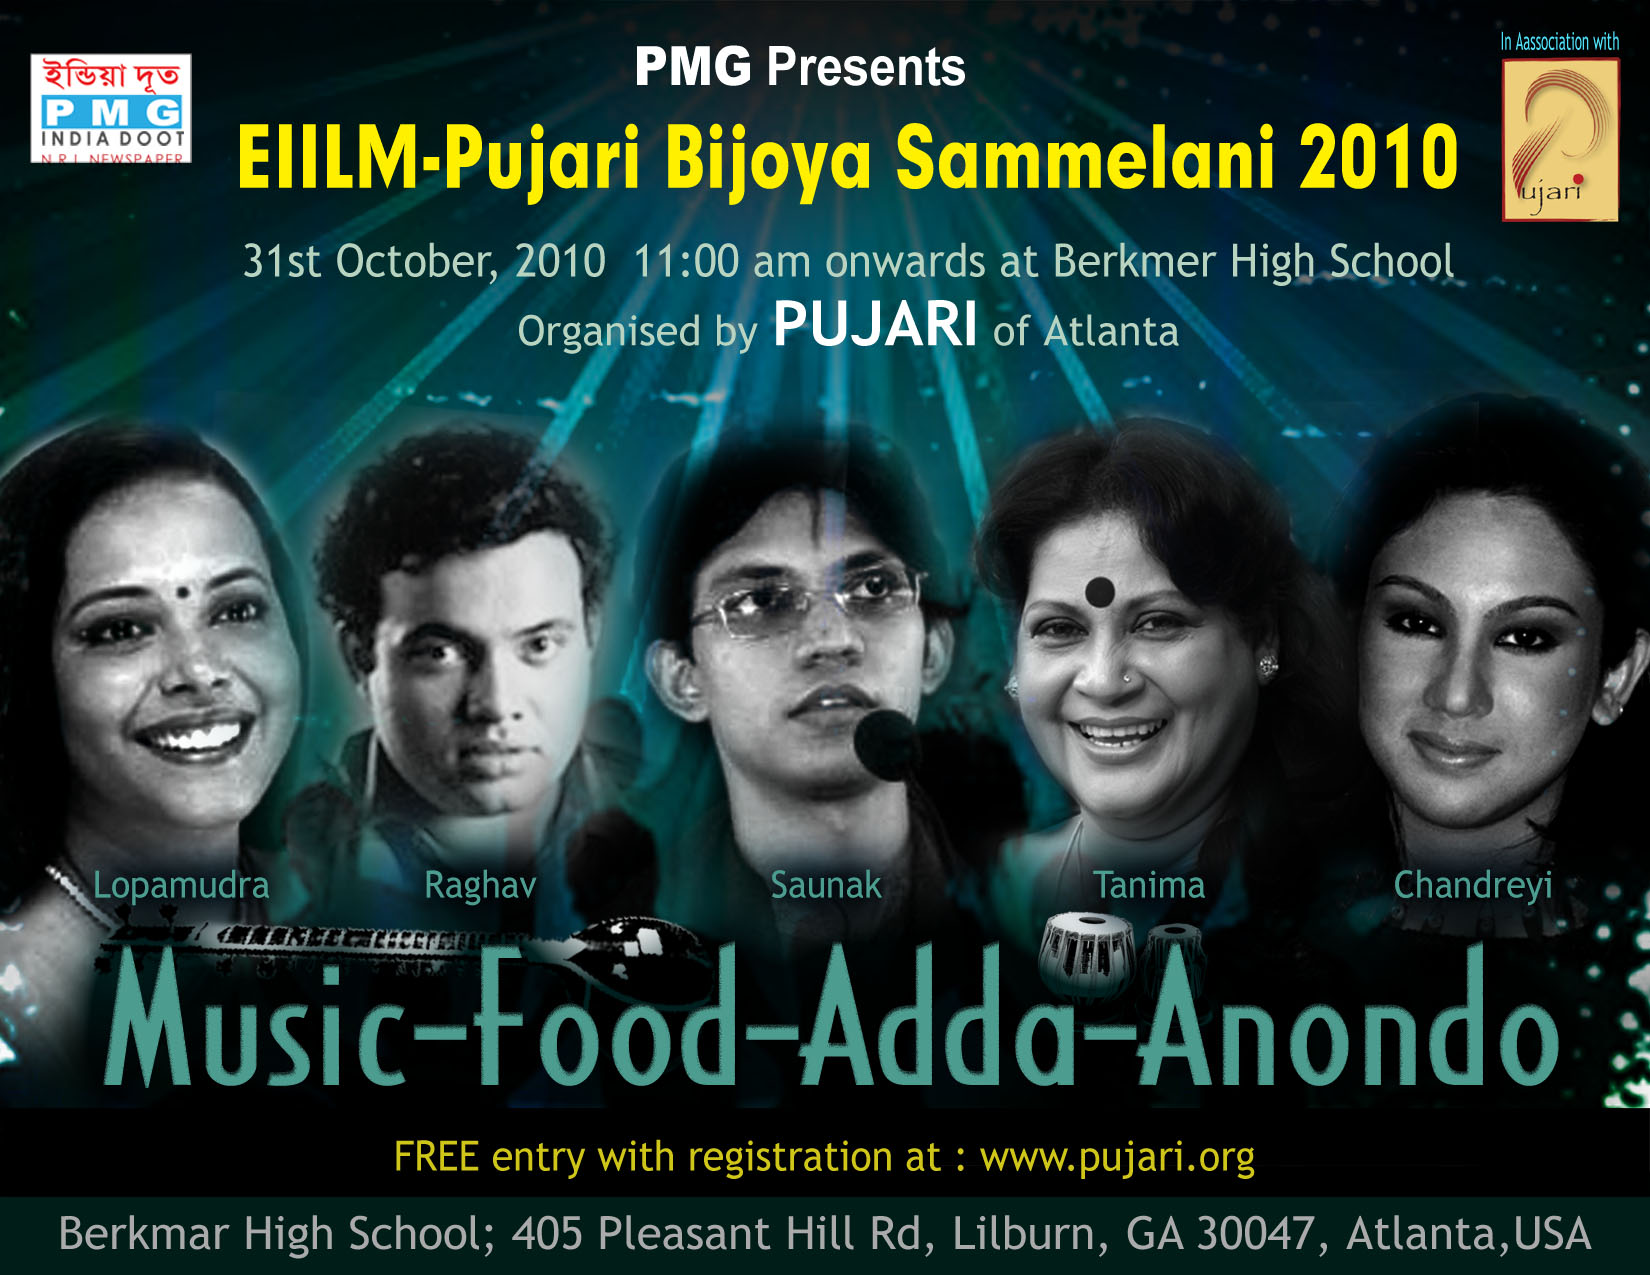
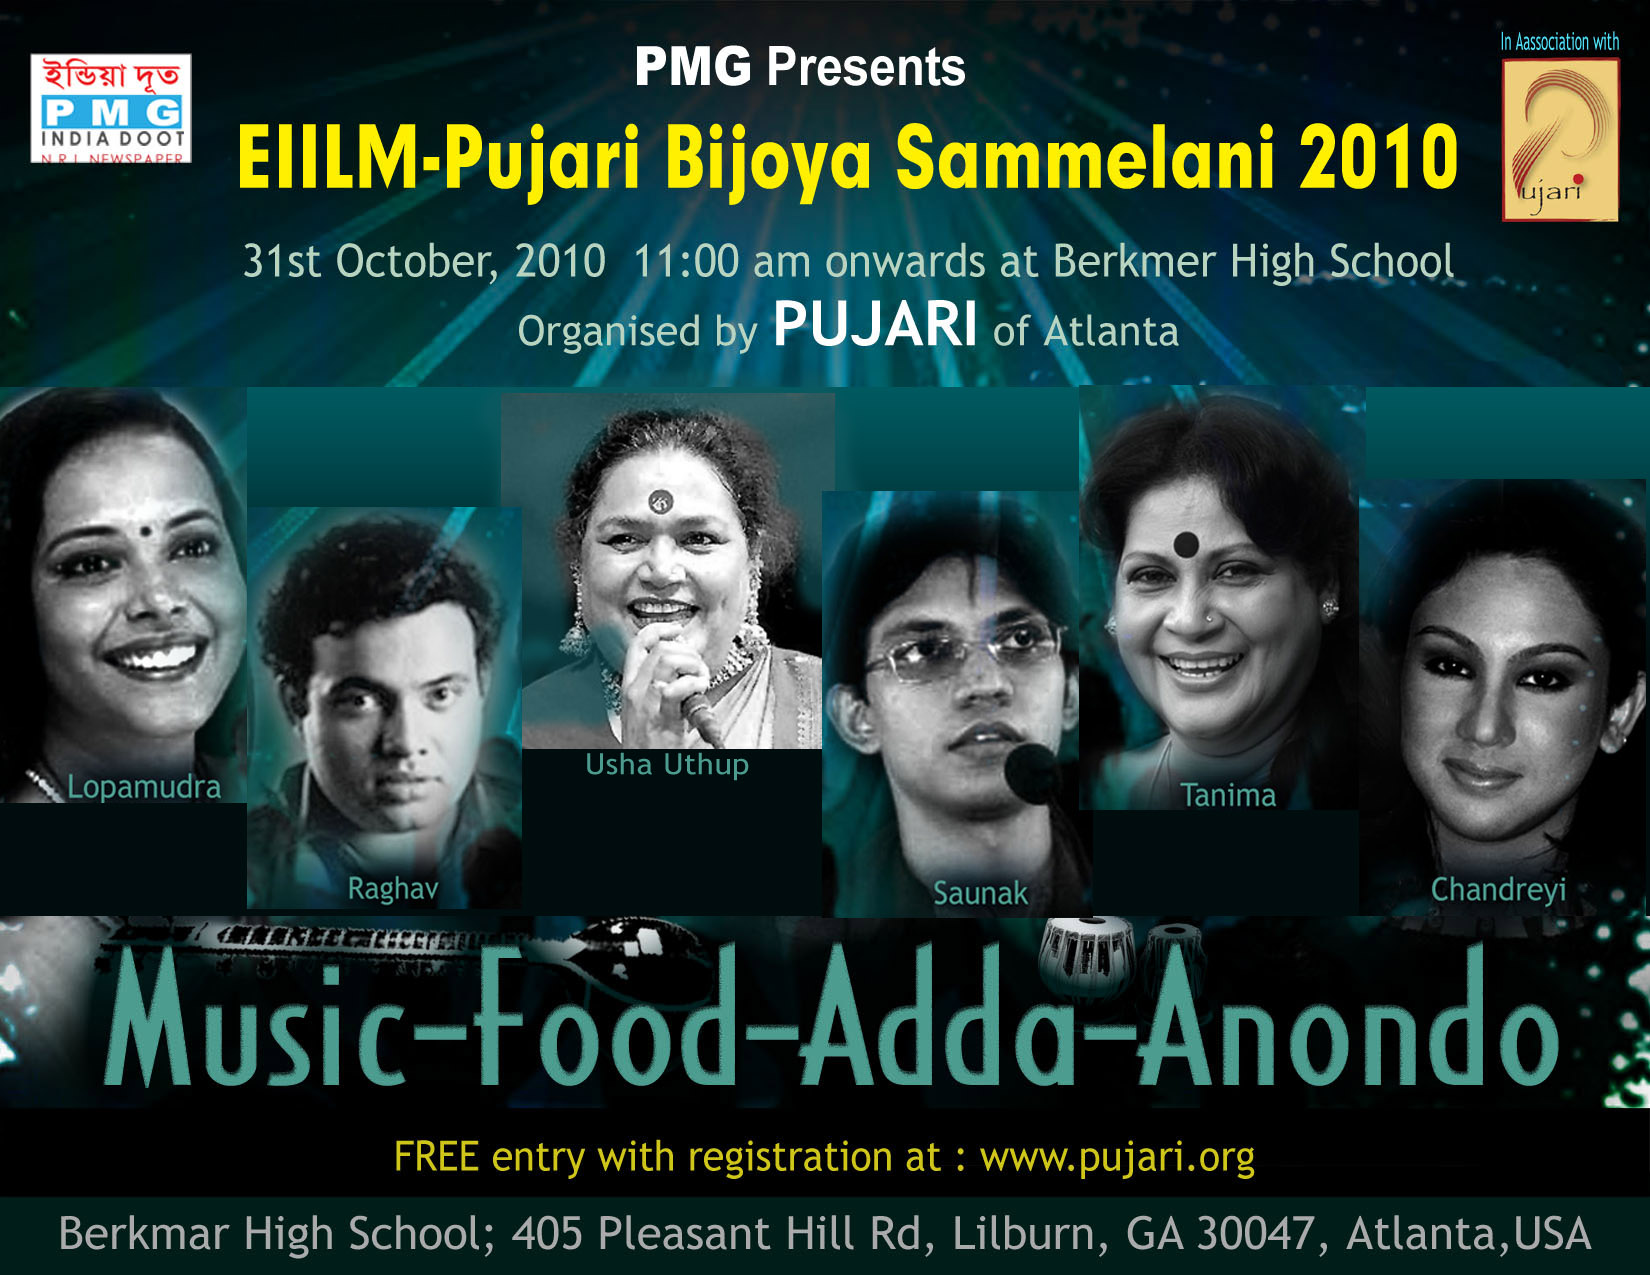
updated to include new artist on home page and events page for BS 2010.

Changed region(s): [[0.0, 0.2753, 1.0, 0.7341], [0.9891, 0.7035, 1.0, 0.7341]]

diff --git a/nextevent.html b/nextevent.html
@@ -209,7 +209,8 @@ type="application/x-shockwave-flash" width="1000" height="150">
 	<DIV align="left">
 	<div class="style21">
 		We just celebrated Durga Puja followed by Laxmi Puja, in a spectacular fashion and now, we at Pujari Atlanta are very excited to share the 
-		entertainment and cultural programs of <a href="http://www.indiautsavpmg.com" target="_blank">Bijoya Sammelani</a> on Oct 31st, 2010.<br/><br/>
+		entertainment and cultural programs of <a href="http://www.indiautsavpmg.com" target="_blank">Bijoya Sammelani</a> on Oct 31st, 2010. There will renowned artists performing 
+		at the event. Not in any particluar order, they are Chandreyi Ghosh, Lopa Mudra Mitra, Raghab Chatterjee, Sounak Chattopadhyay, Tanima Sen and Usha Utthup.<br/><br/>
 		<center><a href="2010/Pujari_BS_Flyer_2010.jpg" target="_blank"><img alt="Pujari Atlanta Bijoya Sammelani 2010" src="2010/Pujari_BS_Flyer_2010.jpg" width="65%" /></a></center>
 		<br/><br/>Bijoya Sammelani online registration is now open. Please register as seats are going fast. <a href="http://eventreg.heroku.com/" target="_blank">Register now!</a><br/>
 		<a href="2010/Pujari_BS_Kolkata_Poster1.jpg" target="_blank"><img style="float:left; margin:10px;" alt="Photos from Park Circus, Kolkata for the Pujari Atlanta Bijoya Sammelani 2010 event in Atlanta" src="2010/Pujari_BS_Kolkata_Poster1.jpg" width="50%" /></a>		

diff --git a/index.html b/index.html
@@ -518,7 +518,7 @@ curobj.q.value="site:"+domainroot+" "+curobj.qfront.value
 			</tr>
 			<tr>
 				<td style="width: 182px"><p>BIJOYA SAMMELANI <br/>Sunday, Oct 31st, 2010<br/>at Berkmar High School</p></td>
-				<td><p>Chandreyi Ghosh, Lopa Mudra Mitra, Raghab Chatterjee, Sounak Chattopadhyay, and Tanima Sen.</p></td>
+				<td><p>Chandreyi Ghosh, Lopa Mudra Mitra, Raghab Chatterjee, Sounak Chattopadhyay, Tanima Sen and Usha Utthup.</p></td>
 			</tr>
 			<tr>
 				<td style="width: 182px"><p>DIWALI <br/>Sat., Nov 13th, 2010<br/>at Bombay Grill</p></td>
